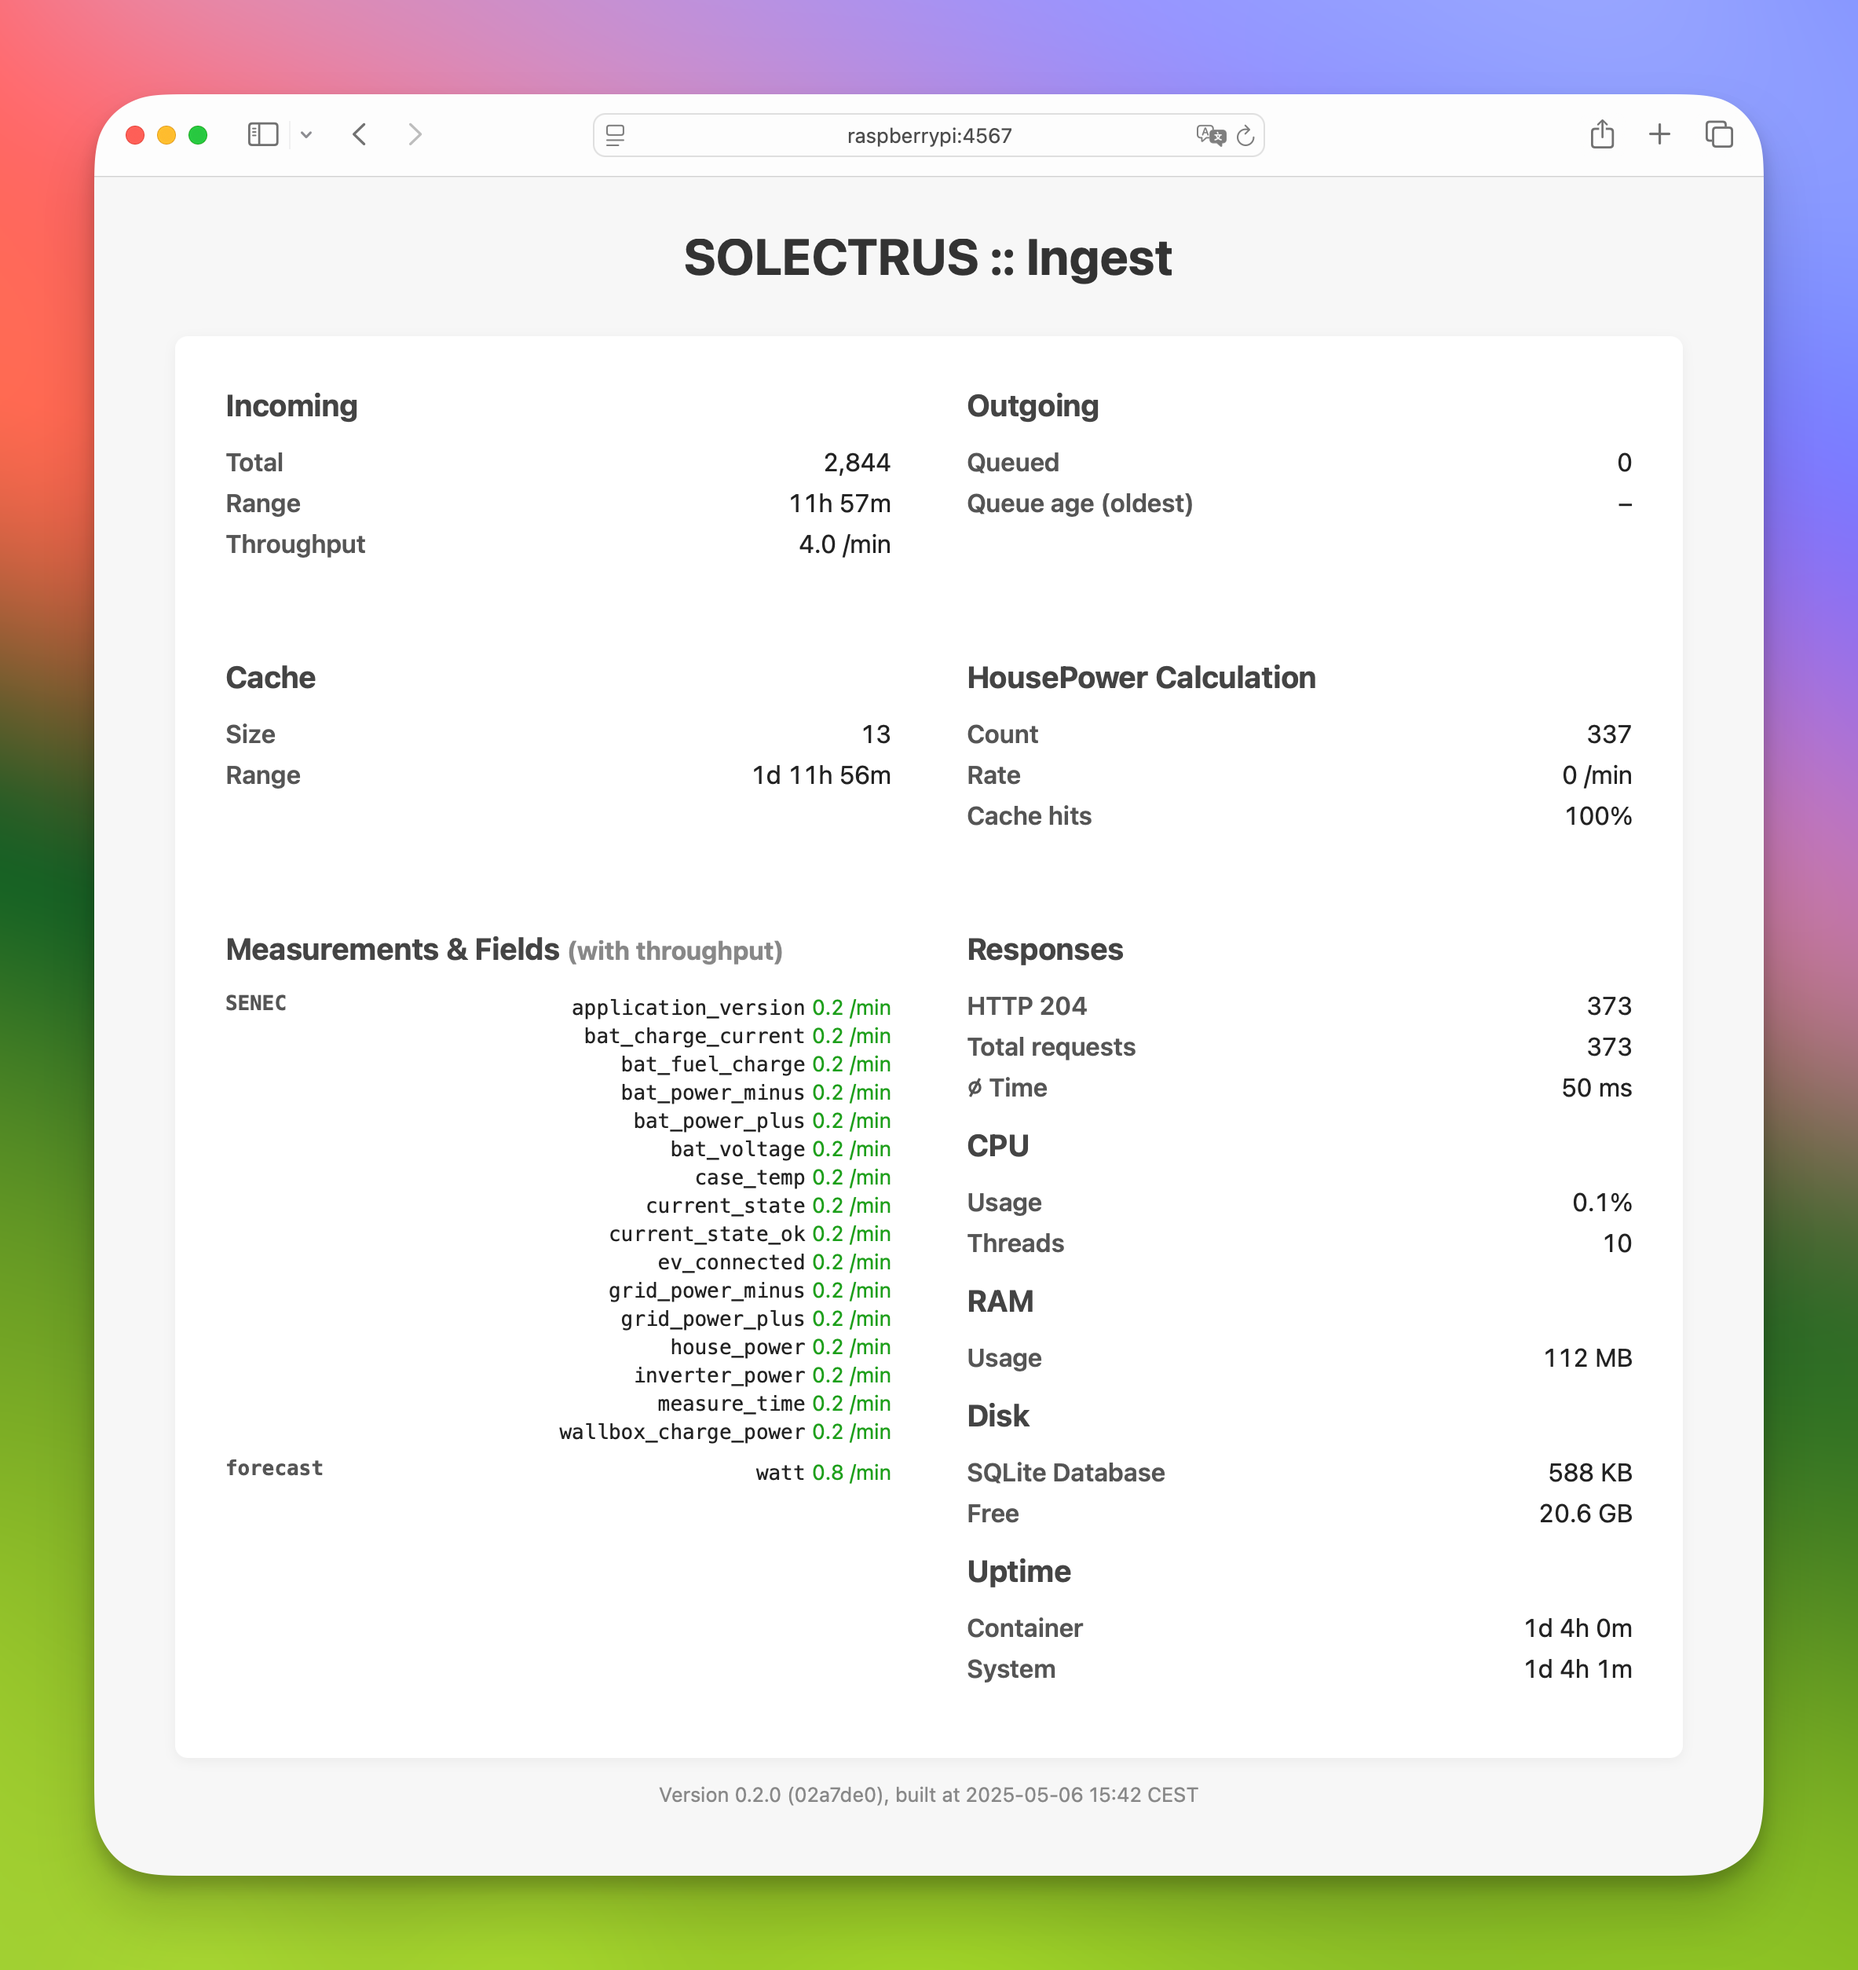
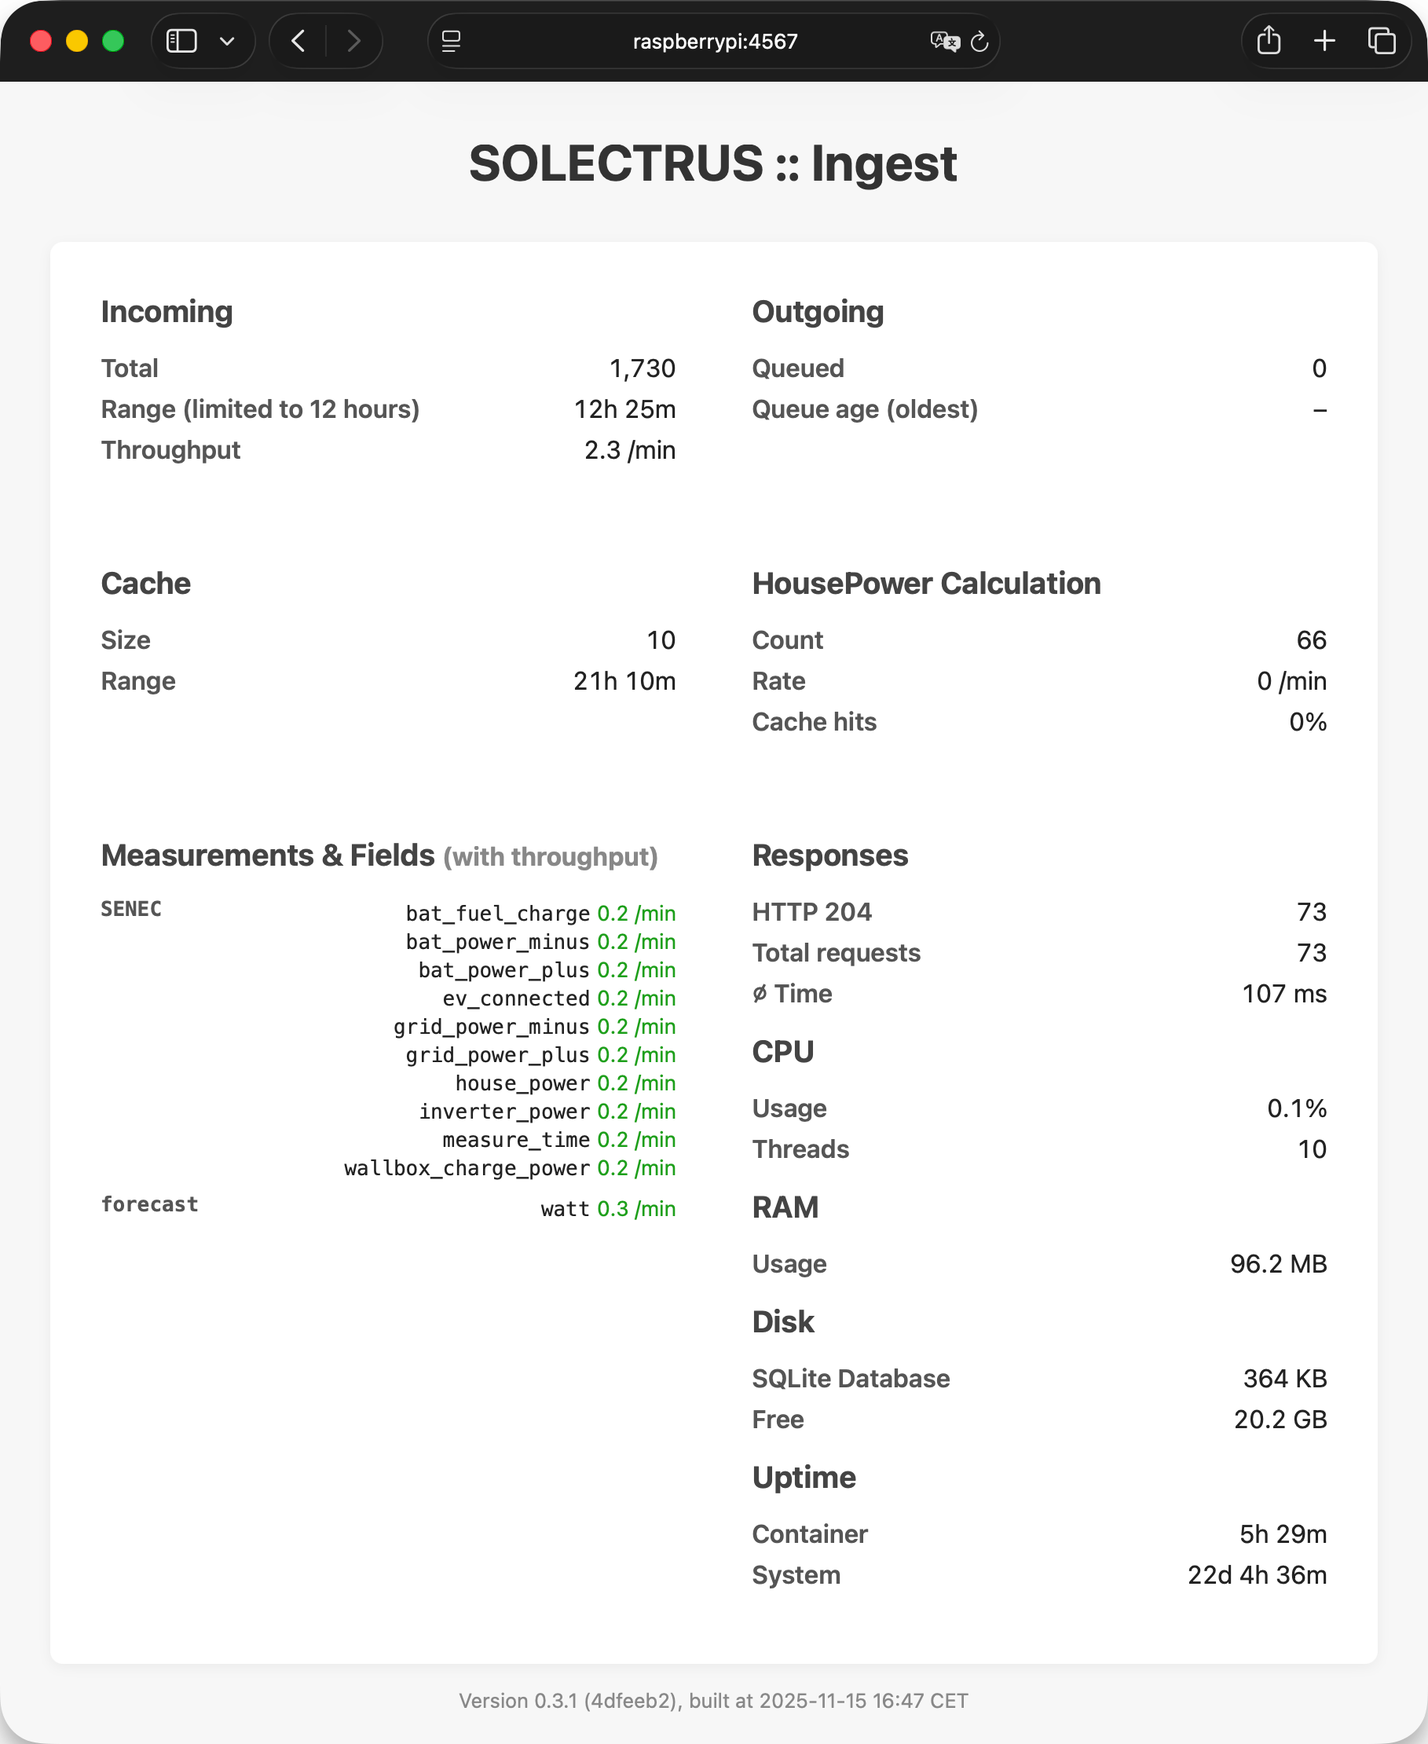
Ingest

diff --git a/src/content/docs/referenz/ingest/inberiebnahme.md b/src/content/docs/referenz/ingest/inberiebnahme.md
@@ -1,7 +1,7 @@
 ---
 title: Inbetriebnahme von Ingest
 sidebar:
-  order: 2
+  order: 3
   label: Inbetriebnahme
 ---
 
@@ -9,7 +9,7 @@ sidebar:
 
 Füge die notwendigen Zeilen in deine `compose.yaml` sowie `.env` ein (siehe [Konfiguration](konfiguration)).
 
-Ingest greift auf die bestehende Variablen der SOLECTRUS-Konfiguration zu und benötigt außerdem die Zugangsdaten zu InfluxDB.
+Ingest greift auf die bestehende Variablen der SOLECTRUS-Konfiguration zu.
 
 Ingest speichert Messwerte der letzten 12 Stunden in einer SQLite-Datenbank. Diese wird in einem Volume abgelegt (`INGEST_VOLUME_PATH=./ingest`). Der Ordner muss vorhanden sein, daher bitte vorher `mkdir ./ingest` ausführen.
 
@@ -30,14 +30,15 @@ docker compose logs ingest -f
 Das sollte beispielsweise so aussehen:
 
 ```
-Ingest for SOLECTRUS, Version 0.2.0 (02a7de0), built at 2025-05-06 15:42 CEST
+Ingest for SOLECTRUS, Version 0.3.1 (4dfeeb2), built at 2025-11-15 16:47 CET
 https://github.com/solectrus/ingest
 Copyright (c) 2025 Georg Ledermann
 
-Using Ruby 3.4.3 on platform aarch64-linux-musl
+Using Ruby 3.4.7 on platform aarch64-linux-musl
 
 Configured sensors:
-  inverter_power            → SENEC:inverter_power
+  inverter_power_1          → SENEC:inverter_power
+  inverter_power_2          → Garage:inverter_power
   grid_import_power         → SENEC:grid_power_plus
   grid_export_power         → SENEC:grid_power_minus
   battery_discharging_power → SENEC:bat_power_minus
@@ -50,6 +51,8 @@ Calculated house_power will OVERRIDE the incoming value!
 
 Forwarding to http://influxdb:8086
 
+SQLite retention: 12 hours
+
 Compacting database...
 Done.
 
@@ -60,21 +63,22 @@ Starting OutboxWorker...
 Starting CleanupWorker...
 
 Puma starting in single mode...
-* Puma version: 6.6.0 ("Return to Forever")
-* Ruby version: ruby 3.4.3 (2025-04-14 revision d0b7e5b6a0) +YJIT +PRISM [aarch64-linux-musl]
+* Puma version: 7.1.0 ("Neon Witch")
+* Ruby version: ruby 3.4.7 (2025-10-08 revision 7a5688e2a2) +YJIT +PRISM [aarch64-linux-musl]
 *  Min threads: 0
 *  Max threads: 5
 *  Environment: production
 *          PID: 1
 * Listening on http://0.0.0.0:4567
 Use Ctrl-C to stop
+
 ```
 
 Wenn das Log so ungefähr aussieht, ist alles gut. Wenn nicht, dann bitte nicht weitermachen, sondern erst die Fehler beseitigen.
 
 Bitte auch prüfen, ob das Web-Interface unter `http://<IP>:4567` erreichbar und funktionsfähig ist.
 
-Bis zu dieser Stelle ist die Änderung an der Konfiguration noch unkritisch. Es läuft nun ein weiter Container, der aber noch nichts tun. Das Dashboard wird unverändert weiter funktionieren und die exakt gleichen Messwerte anzeigen wie vorher.
+Bis zu dieser Stelle ist die Änderung an der Konfiguration noch unkritisch. Es läuft nun ein weiter Container, der aber noch keine Messwerte empfängt. Das Dashboard wird unverändert weiter funktionieren und die exakt gleichen Messwerte anzeigen wie vorher.
 
 ### 3. Kollektoren anpassen
 
@@ -106,23 +110,20 @@ Nun müssen unbedingt wieder die Logs geprüft werden, und zwar diesmal der Koll
 Beim SENEC-Collector würde das so aussehen:
 
 ```
-SENEC collector for SOLECTRUS, Version 0.17.1, built at 2025-03-07T15:05:05.542Z
+SENEC collector for SOLECTRUS, Version 0.19.2, built at 2025-11-11T06:03:32.524Z
 https://github.com/solectrus/senec-collector
 Copyright (c) 2020-2025 Georg Ledermann, released under the MIT License
 
-Using Ruby 3.4.2 on platform aarch64-linux-musl
+Using Ruby 3.4.7 on platform aarch64-linux-musl
 Pushing to InfluxDB at http://ingest:4567, bucket solectrus, measurement SENEC
 
-....
-
-Got record #1 at 2025-03-31 09:15:53 +0200, LADEN, Inverter 745 W, House 373 W, Wallbox 0 W
-Successfully pushed record #1 to InfluxDB
+Wait until InfluxDB is ready ... OK
 ```
 
-Die Kollektoren gehen weiterhin davon aus, dass sie nach InfluxDB schreiben. Tatsächlich schreiben sie aber (aufgrund der veränderten Angabe für HOST und PORT) nach Ingest, wo ein kompatibles Interface zur Entgegennahme von Messwerten bereitsteht.
+Die Kollektoren gehen also weiterhin davon aus, dass sie nach InfluxDB schreiben. Tatsächlich schreiben sie aber (aufgrund der veränderten Angabe für `INFLUX_HOST` und `INFLUX_PORT`) nach Ingest, wo ein kompatibles Interface zur Entgegennahme von Messwerten bereitsteht.
 
 ### 4. Fertig!
 
 Im Dashboard ist **nichts** anzupassen. Wenn alles korrekt eingerichtet ist, wird das Dashboard für die neu eingehenden Messwerte einen korrigierten Hausverbrauch anzeigen.
 
-Das Web-Interface von Ingest mit ein paar statistischen Daten ist unter `http://<IP>:4567` erreichbar.
+Die [Web-Oberfläche von Ingest](../web-oberflaeche) mit einigen Kennzahlen ist unter `http://<IP>:4567` erreichbar.

diff --git a/src/content/docs/referenz/ingest/konfiguration.md b/src/content/docs/referenz/ingest/konfiguration.md
@@ -1,7 +1,7 @@
 ---
 title: Konfiguration von Ingest
 sidebar:
-  order: 3
+  order: 2
   label: Konfiguration
 ---
 
@@ -59,23 +59,54 @@ services:
 
 ## Umgebungsvariablen
 
+#### INGEST_VOLUME_PATH
+
+Pfad auf dem Host, in dem Ingest seine SQLite-Datenbank ablegt.
+
+:::note[Pflicht]
+Muss zwingend gesetzt werden
+:::
+
+```dotenv title="Beispiel"
+INGEST_VOLUME_PATH=./ingest
+```
+
 #### TZ
 
 Zeitzone gemäß [Liste](https://en.wikipedia.org/wiki/List_of_tz_database_time_zones)
+
+:::note[Optional]
+Standard: `Europe/Berlin`
+:::
+
+```dotenv title="Beispiel"
+TZ=Europe/Rome
+```
 
 #### STATS_PASSWORD
 
 Passwort für den Zugriff auf die Web-Oberfläche
 
-#### RETENTION_HOURS (ab v0.3.1)
+:::note[Optional]
+Wenn nicht gesetzt, ist der Zugriff ohne Passwort möglich.
+:::
 
-Dauer in Stunden, für die Daten lokal (in SQlite) aufbewahrt werden sollen. Standardwert ist 12 Stunden. Ein höherer Wert benötigt mehr RAM, erlaubt aber längere Ausfallzeiten, in denen die InfluxDB temporär nicht erreichbar ist.
-
-## Beispielhafte .env
-
-```properties
-TZ=Europe/Berlin
+```dotenv title="Beispiel"
 STATS_PASSWORD=mysecretpassword
-INGEST_VOLUME_PATH=./ingest
+```
+
+#### RETENTION_HOURS
+
+Dauer in Stunden, für die Daten lokal (in SQLite) aufbewahrt werden sollen.
+
+:::note[Optional]
+Standard: `12`
+
+Ein höherer Wert benötigt mehr RAM, erlaubt aber längere Ausfallzeiten. Das kann sinnvoll sein, wenn InfluxDB extern gehostet wird und bei einem Ausfall der Internetverbindung möglicherweise länger nicht erreichbar ist.
+
+**Verfügbar ab Ingest v0.3.1**
+:::
+
+```dotenv title="Beispiel"
 RETENTION_HOURS=36
 ```

diff --git a/src/content/docs/referenz/ingest/web-oberflaeche.md b/src/content/docs/referenz/ingest/web-oberflaeche.md
@@ -8,6 +8,7 @@ sidebar:
 **Ingest** hat eine kleine Web-Oberfläche, die einige Kennzahlen zum Betrieb anzeigt, u.a.:
 
 - Datendurchsatz
+- Warteschlangenlänge
 - Messwerte mit ihrer Häufigkeit
 - CPU-Auslastung
 - RAM-Auslastung
